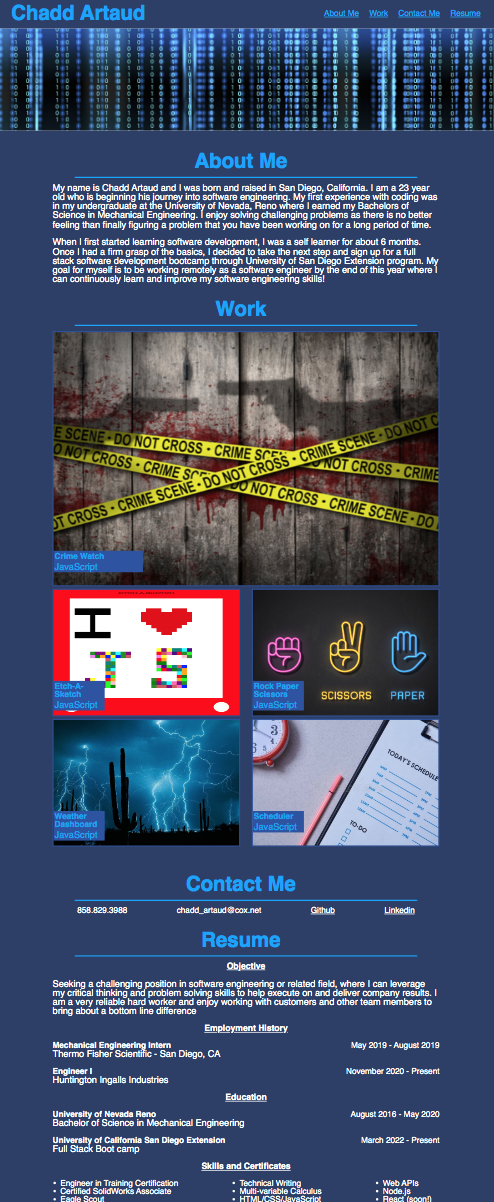
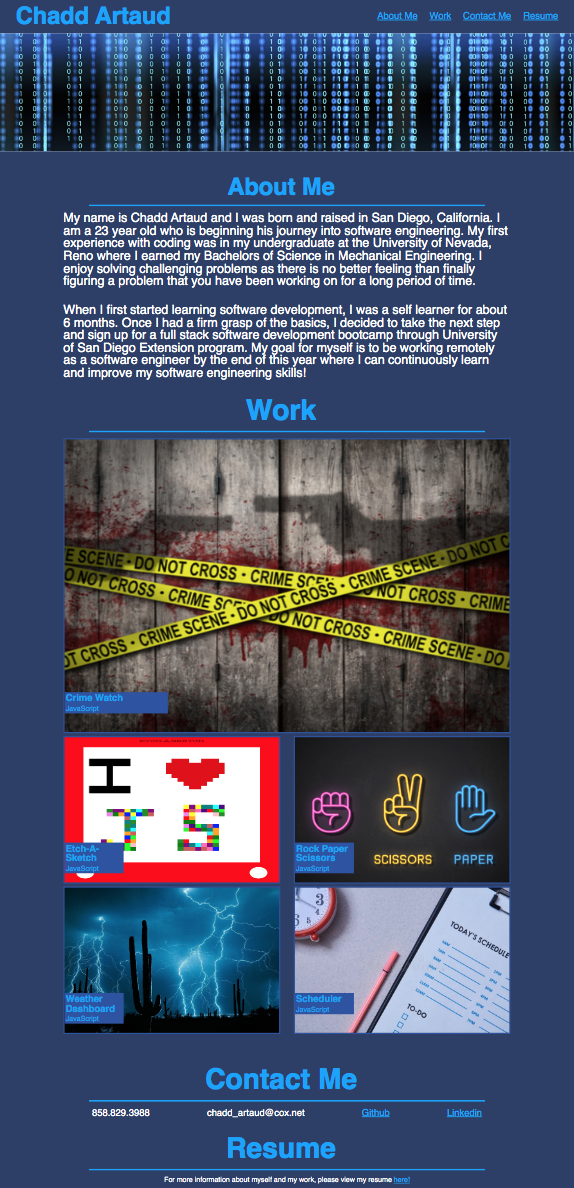
updated previews

diff --git a/assets/css/style.css b/assets/css/style.css
@@ -153,6 +153,10 @@ a:hover {
 }
 
 @media screen and (max-width: 992px) {
+    p {
+        font-size: 14px;
+    }
+
     .contentContainer {
         display: flex;
         flex-direction: column;
